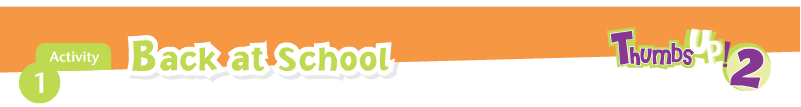
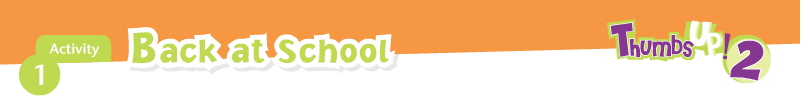
Centered canvas & head cropped

Changed region(s): [[0.0, 0.1818, 0.9988, 0.8485], [0.0, 0.0, 0.9988, 0.0909], [0.0312, 0.9394, 0.0624, 0.9697]]

diff --git a/U1A1.html b/U1A1.html
@@ -5,20 +5,19 @@
         <meta charset="utf-8" />
         <title>U1A1</title>
         <link href='http://fonts.googleapis.com/css?family=Pathway+Gothic+One' rel='stylesheet' type='text/css'>
-        <link rel="stylesheet" href="css/animations.less" type="text/less" />
-        <link rel="stylesheet" href="css/style.less" type="text/less" />
+        <style>
+        *{margin: 0; padding: 0}
+        #container{margin: 0 auto; width: 800px}
+        canvas{margin: 0 auto; width: 800px}
+        </style>
     </head>
     <body>
         <div id="container">
-            <section id="contenido">
-                <div id="todo">
-                    <div id="preloader">0%</div>
-                    <canvas id="oda" width="800" height="600"></canvas>
-                </div>      
-            </section>
+            <div id="preloader">0%</div>
+            <canvas id="oda" width="800" height="600"></canvas>
         </div>
         <script src="http://code.jquery.com/jquery-1.10.1.min.js"></script>
-<script src="http://code.jquery.com/jquery-migrate-1.2.1.min.js"></script>
+        <script src="http://code.jquery.com/jquery-migrate-1.2.1.min.js"></script>
         <script src="http://cdnjs.cloudflare.com/ajax/libs/gsap/latest/TweenMax.min.js"></script>
         <script type="text/javascript" src="http://code.createjs.com/createjs-2013.05.14.min.js"></script>
         <!--<script src="http://code.createjs.com/easeljs-0.6.1.min.js"></script>

diff --git a/js/u1a1.js b/js/u1a1.js
@@ -79,7 +79,7 @@ function setStage(){
     stage.enableMouseOver();
     
     var header = new createjs.Bitmap(imgHeader);
-    
+
     personajeAnim.x = stage.canvas.width/2;
     personajeAnim.y = 200;
     personajeAnim.currentFrame = 0;
